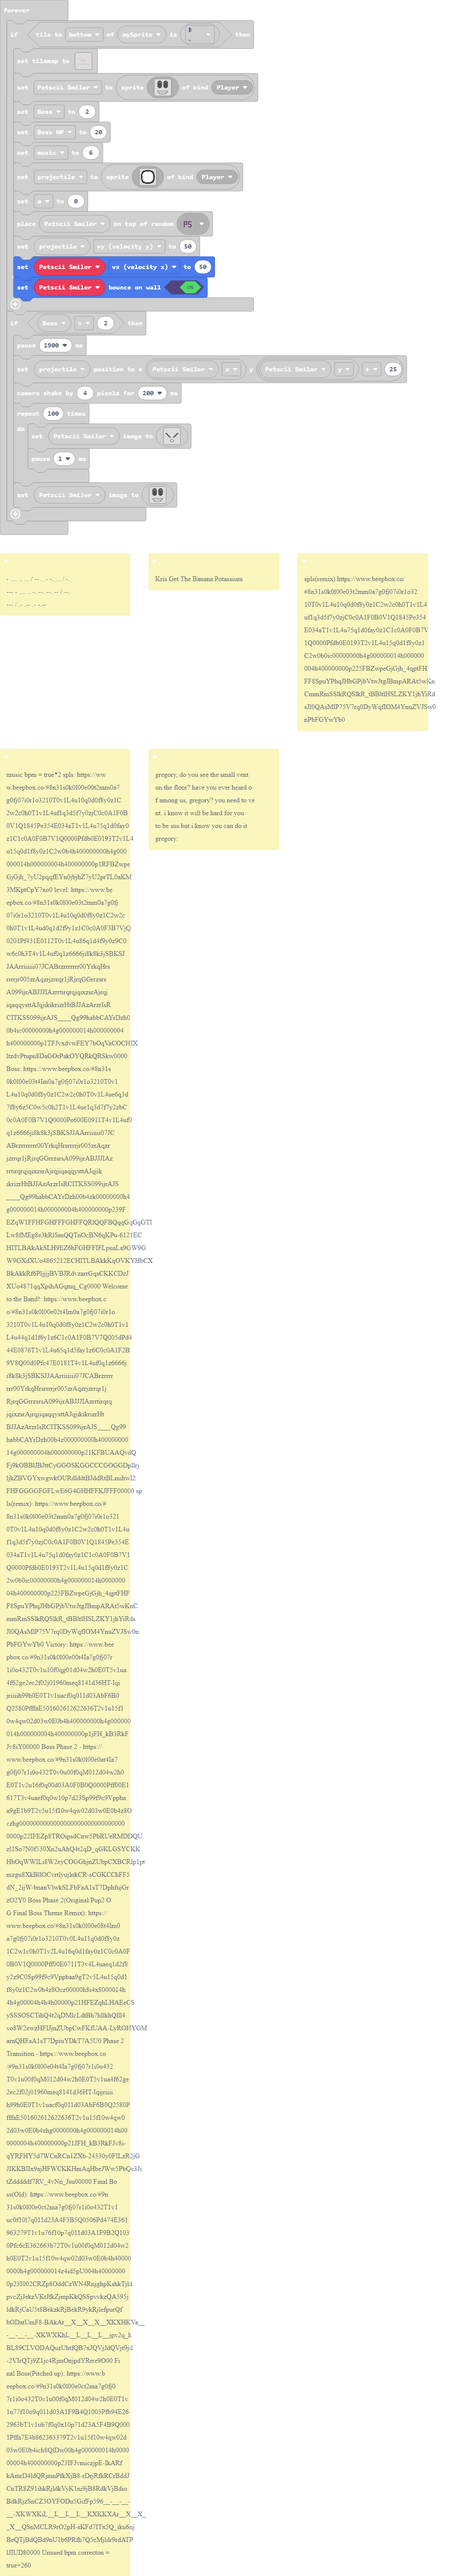
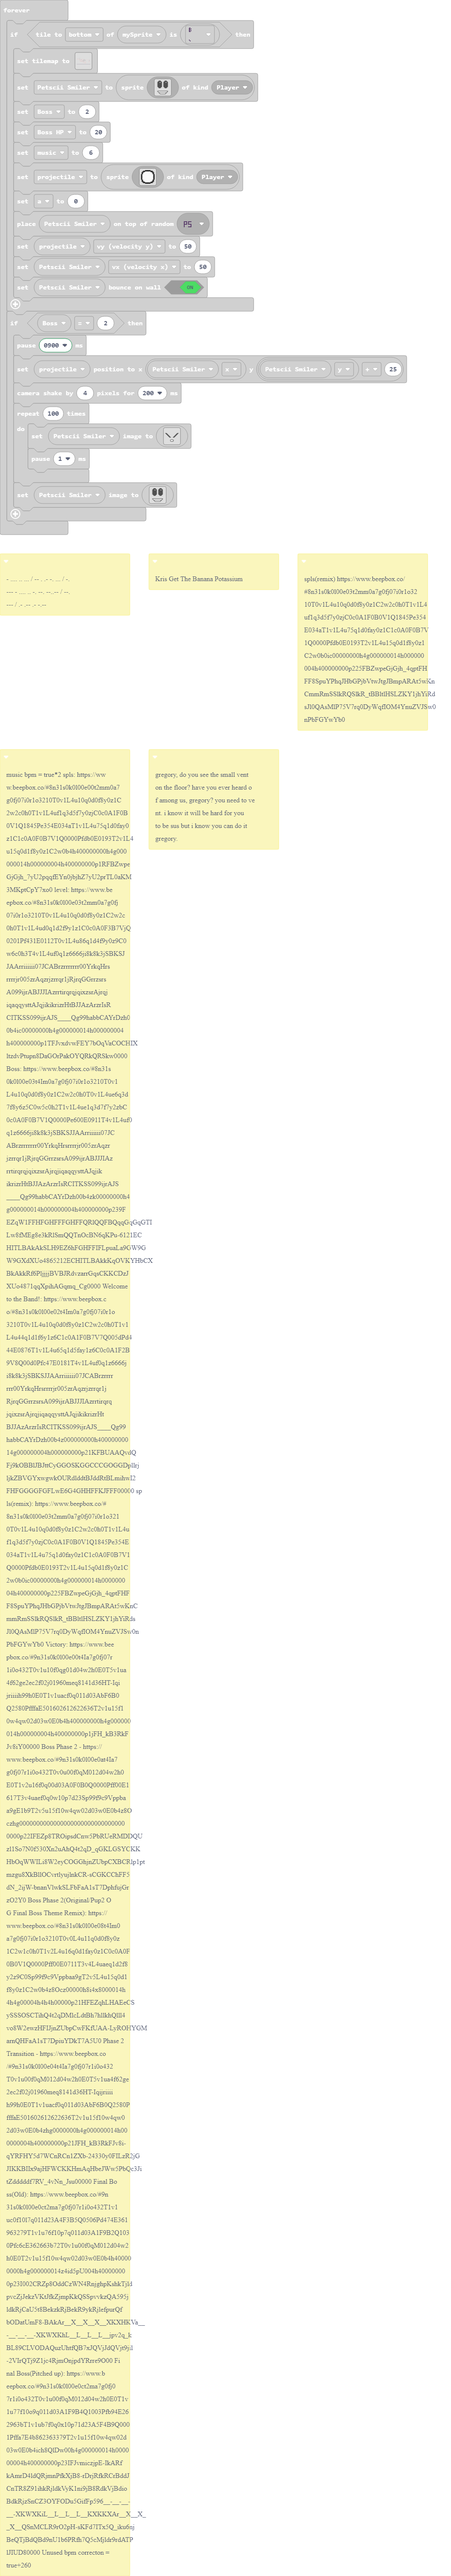
Update main.blocks, main.ts

Changed region(s): [[0.0311, 0.0933, 0.467, 0.1245]]

diff --git a/main.ts b/main.ts
@@ -3591,7 +3591,7 @@ forever(function () {
         Petscii_Smiler.setBounceOnWall(true)
     }
     if (Boss == 2) {
-        pause(1900)
+        pause(0900)
         projectile.setPosition(Petscii_Smiler.x, Petscii_Smiler.y + 25)
         scene.cameraShake(4, 200)
         for (let index = 0; index < 100; index++) {
